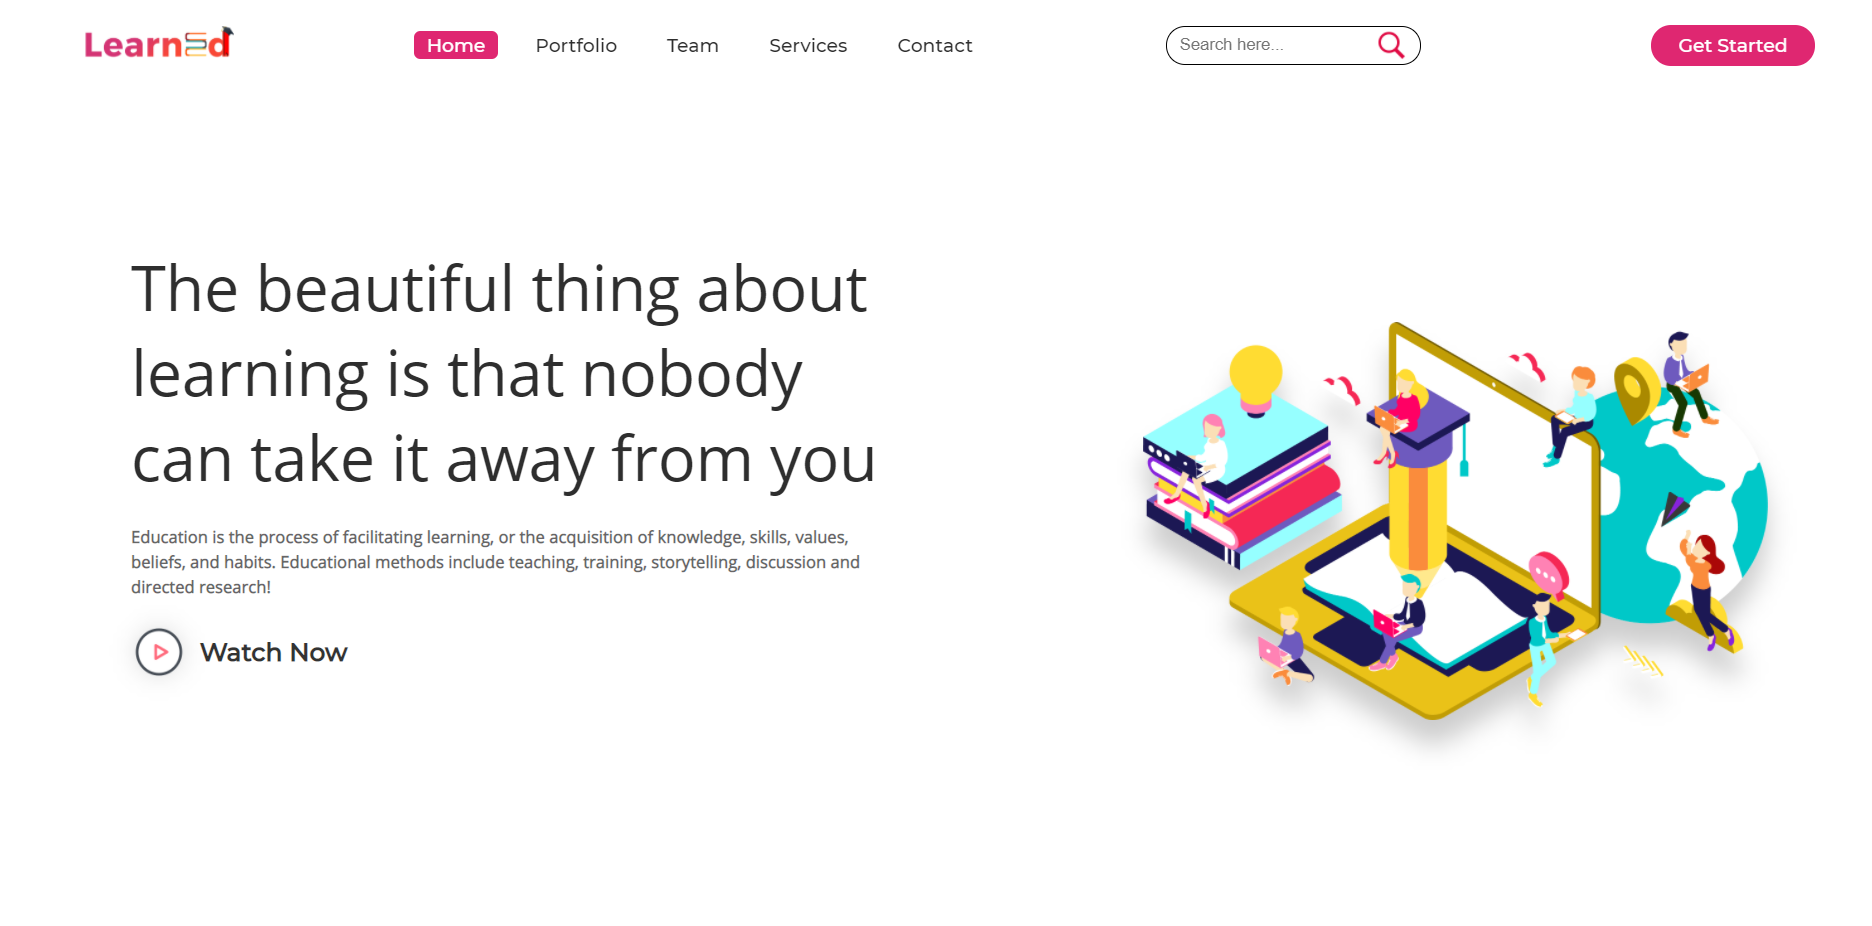
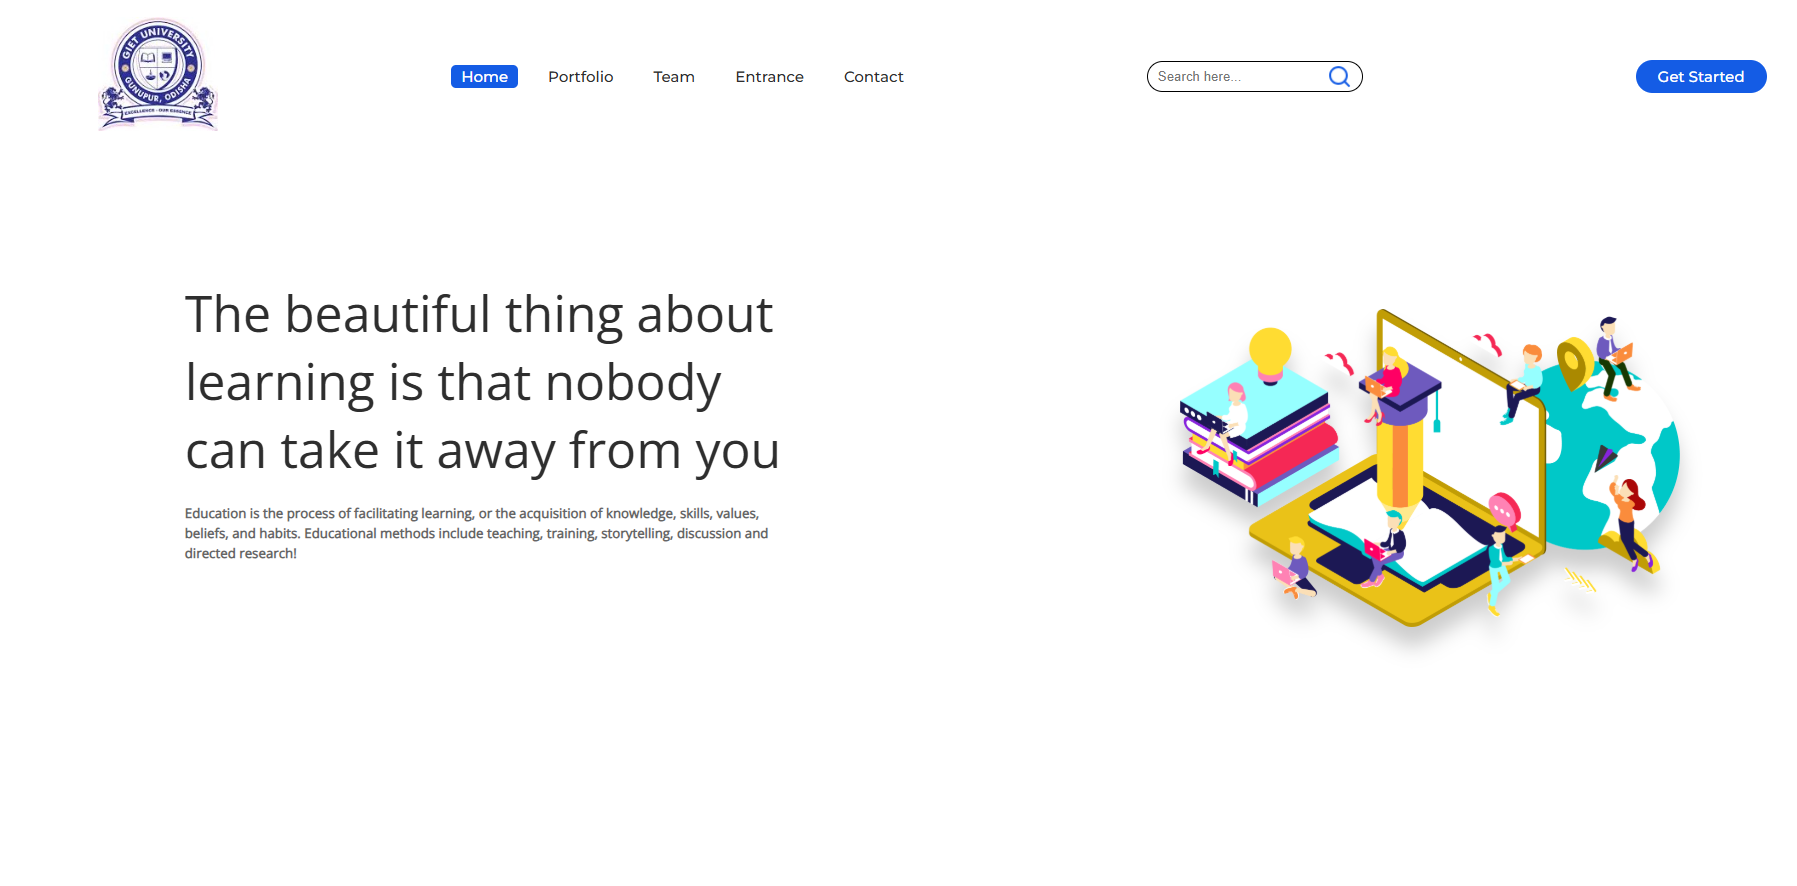
Updated index.html, style.css and image file

diff --git a/E_learning[1]/LearnEd_E-learning_Website-master/index.html b/E_learning[1]/LearnEd_E-learning_Website-master/index.html
@@ -253,7 +253,7 @@
 		<div class="back-contact">
 			<div class="cc">
 			<form action="mailto:roshank9419@gmail.com" method="post" enctype="text/plain">
-				<label>First Name <span class="imp">*</span></label><label style="margin-left: 185px">Last Name <span class="imp">*</span></label><br>
+				<label>First Name <span class="imp"></span></label><label style="margin-left: 185px">Last Name <span class="imp"></span></label><br>
 				<center>
 				<input type="text" name="" style="margin-right: 10px; width: 175px" required="required"><input type="text" name="lname" style="width: 175px" required="required"><br>
 				</center>
@@ -293,7 +293,7 @@
 	</div>
 
 <!-- Sliding Information -->
-	<marquee style="background: linear-gradient(to right, #FA4B37, #DF2771); margin-top: 50px;" direction="left" onmouseover="this.stop()" onmouseout="this.start()" scrollamount="20"><div class="marqu">“Education is the passport to the future, for tomorrow belongs to those who prepare for it today.” “Your attitude, not your aptitude, will determine your altitude.” “If you think education is expensive, try ignorance.” “The only person who is educated is the one who has learned how to learn …and change.”</div></marquee>
+	<marquee style="background: linear-gradient(to right,  #11688d, #79b7e2); margin-top: 50px;" direction="left" onmouseover="this.stop()" onmouseout="this.start()" scrollamount="20"><div class="marqu">“Education is the passport to the future, for tomorrow belongs to those who prepare for it today.” “Your attitude, not your aptitude, will determine your altitude.” “If you think education is expensive, try ignorance.” “The only person who is educated is the one who has learned how to learn …and change.”</div></marquee>
 
 <!-- FOOTER -->
 	<footer>
@@ -308,7 +308,7 @@
 					<a href="#"><img src="images/icon\ytube.png"></a>
 					<a href="#"><img src="images/icon\linkedin.png"></a>
 				</div><br><br>
-				<p class="rights-text">Copyright © 2024 Created By Sujall Polai, Samikshya Patra, Purnima Meher All Rights Reserved.</p>
+				<p class="rights-text">Copyright © 2025 Created By Sujall Polai, Samikshya Patra, Purnima Meher All Rights Reserved.</p>
 				<br><p><img src="images/icon/location.png"> GIET University<br>Gunupur, Odisha-765022</p><br>
 				<p><img src="images/icon/phone.png"> +91-7804068698<br><img src="images/icon/mail.png">&nbsp; enquiry@giet.edu</p>
 			</div>

diff --git a/E_learning[1]/LearnEd_E-learning_Website-master/style.css b/E_learning[1]/LearnEd_E-learning_Website-master/style.css
@@ -234,7 +234,7 @@ a, button {
 }
 .diffSection {
 	width: 100%;
-	/*position: relative;*/
+	position: relative;
 	justify-content: center;
 	align-items: center;
 }
@@ -520,7 +520,7 @@ a, button {
 
 /*Contact Us Section*/
 .csec {
-	background: linear-gradient(to right, #FA4B37, #DF2771);
+	background: linear-gradient(to right,  #2685a5, #79b7e2);
 	background-attachment: fixed; 
 	position: absolute;
 	width: 100%;
@@ -585,7 +585,7 @@ form textarea {
 }
 #csubmit {
 	margin-top: 20px; 
-	background: linear-gradient(to right, #FA4B37, #DF2771);
+	background: linear-gradient(to right,  #2685a5, #79b7e2);
 	border-radius: 5px;
 	border-style: none;
 	outline: none;
@@ -616,7 +616,7 @@ form textarea {
 	justify-content: space-around;
 }
 .rev-container .rev-card {
-	/*overflow: hidden;*/
+	overflow: hidden;
 	width: 550px;
 	height: 240px;
 	margin-bottom: 40px;
@@ -750,7 +750,7 @@ form textarea {
 }
 .feed #csubmit {
 	margin-top: 25px; 
-	background: linear-gradient(to right, #FA4B37, #DF2771);
+	background: linear-gradient(to right,  #2685a5, #79b7e2);
 	border-radius: 5px;
 	border-style: none;
 	outline: none;
@@ -803,7 +803,7 @@ footer .right-col h1{
 footer .border{
 	width: 100px;
 	height: 4px;
-	background: linear-gradient(to right, #FA4B37, #DF2771);
+	background: linear-gradient(to right,  #2685a5, #79b7e2);
 	margin: 2px;
 }
 footer .newsletter-form {
@@ -813,7 +813,7 @@ footer .newsletter-form {
 	flex-wrap: wrap;
 }
 footer input::placeholder {
-  color: white !important;
+    color: white !important;
 }
 footer .txtb {
 	flex: 1;
@@ -833,7 +833,7 @@ footer .btn {
 	padding: 18px 40px;
 	font-size: 16px;
 	color: #f1f1f1;
-	background: linear-gradient(to right, #FA4B37, #DF2771);
+	background: linear-gradient(to right,  #2685a5, #79b7e2);
 	border: none;
 	font-weight: 700;
 	outline: none;
